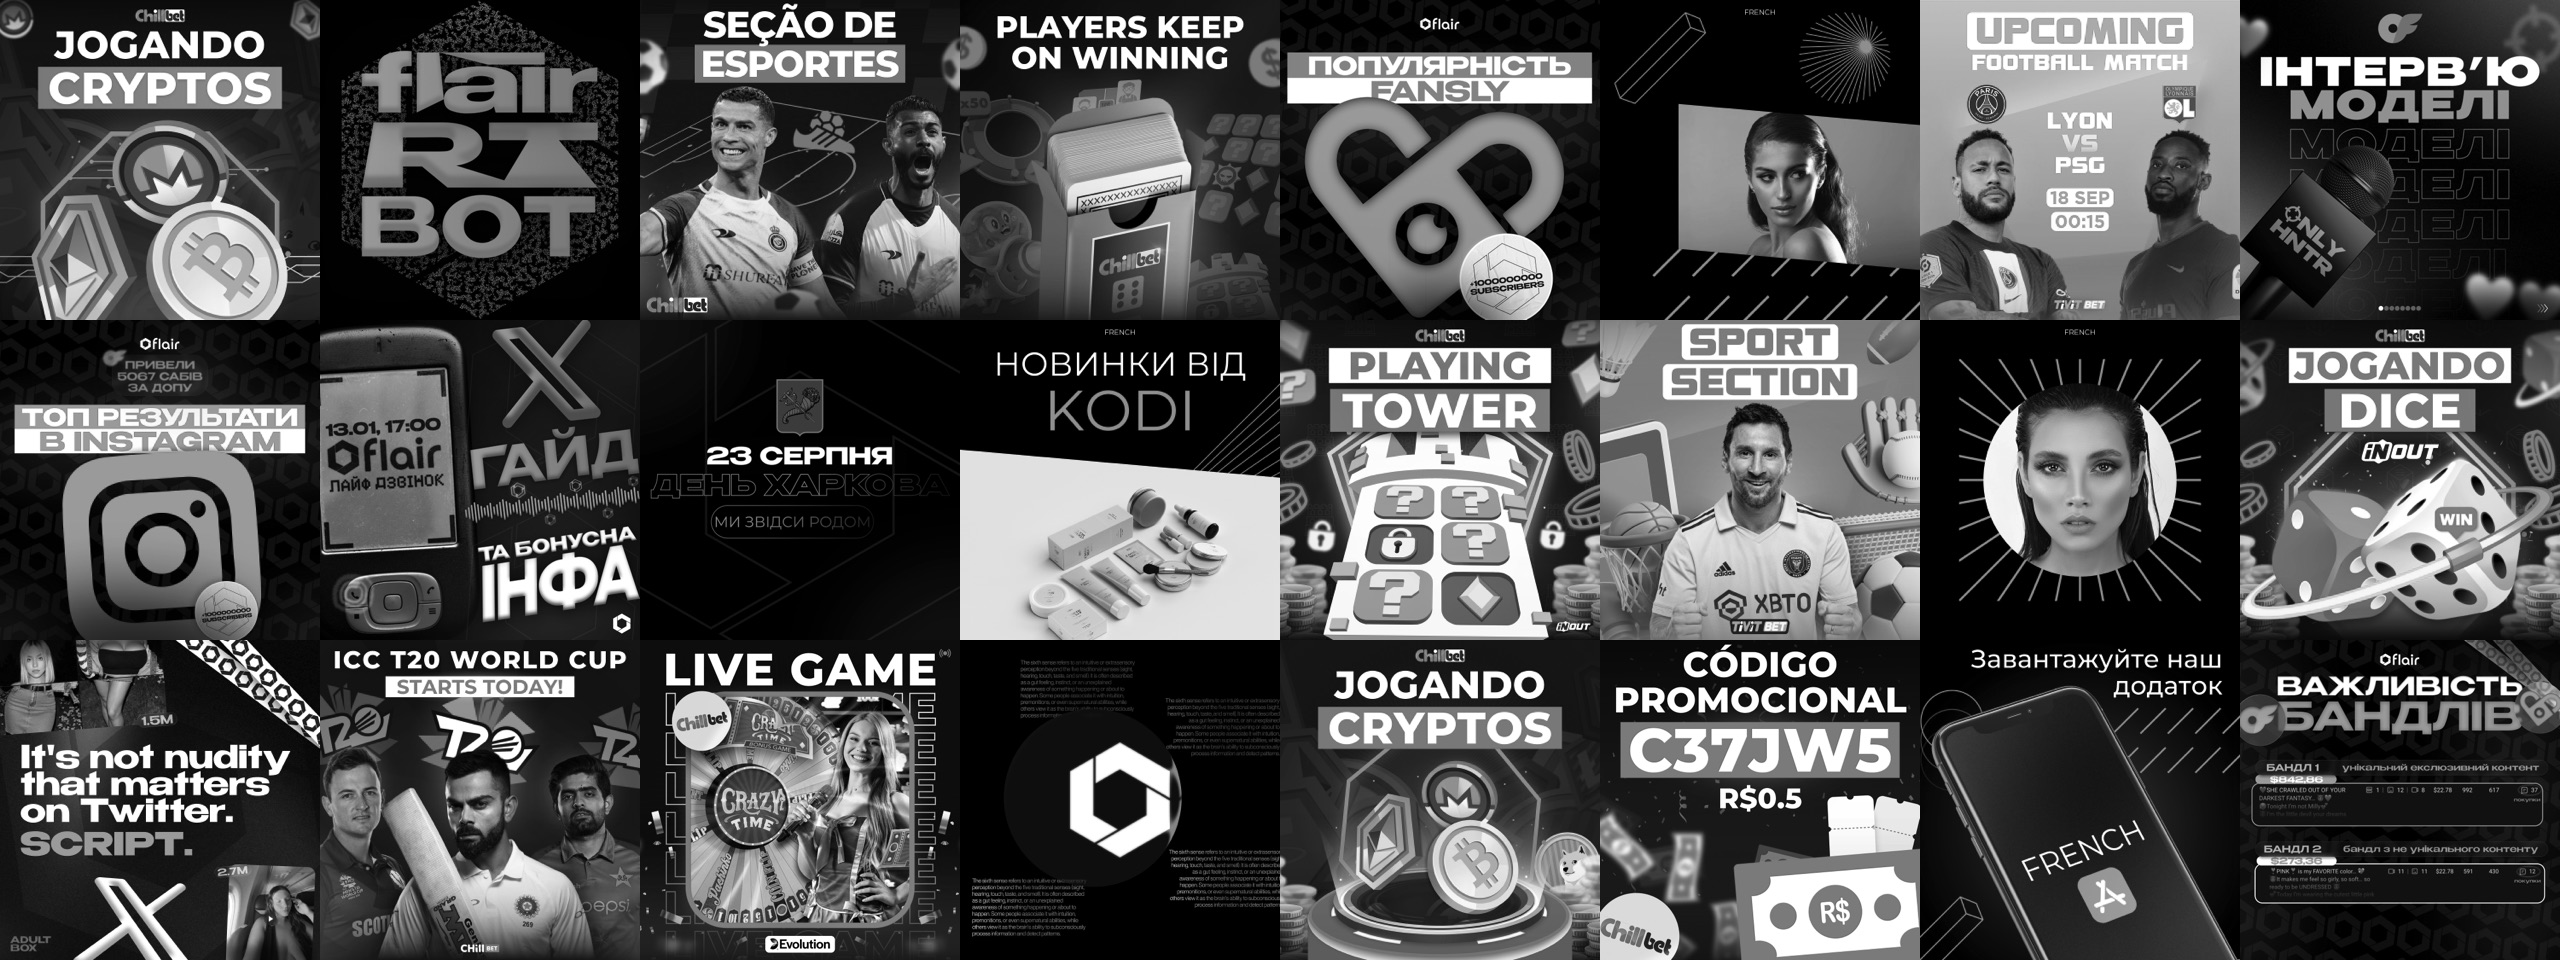
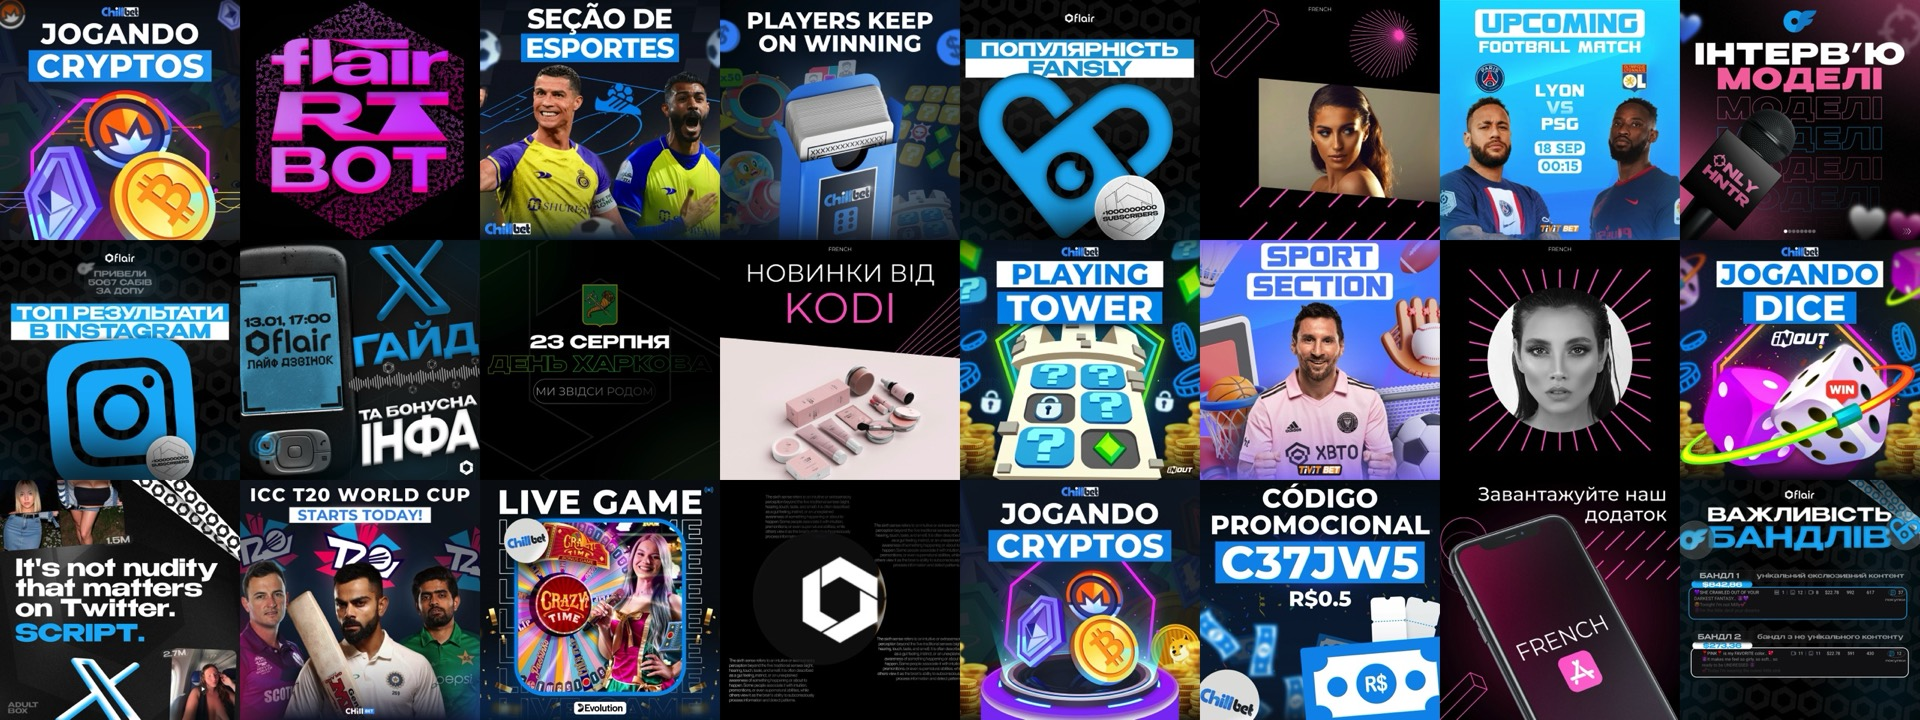
Add files via upload

diff --git a/index.html b/index.html
@@ -20,6 +20,17 @@
   <link rel="preconnect" href="https://fonts.googleapis.com" />
   <link rel="preconnect" href="https://fonts.gstatic.com" crossorigin />
   <link href="https://fonts.googleapis.com/css2?family=Inter:wght@300;400;500;600;700;800&display=swap" rel="stylesheet" />
+  <link rel="preload" as="image" href="smm.jpg" />
+  <link rel="preload" as="image" href="m1.gif" />
+  <link rel="preload" as="image" href="m2.gif" />
+  <link rel="preload" as="image" href="m3.gif" />
+  <link rel="preload" as="image" href="m4.gif" />
+  <link rel="preload" as="image" href="m5.gif" />
+  <link rel="preload" as="image" href="m6.gif" />
+  <link rel="preload" as="image" href="m7.gif" />
+  <link rel="preload" as="image" href="m8.gif" />
+  <link rel="preload" as="image" href="m9.gif" />
+  <link rel="preload" as="image" href="m10.gif" />
   <style>
     :root {
       --rx: 0deg;
@@ -668,6 +679,20 @@
       width: 100%;
       height: auto;
       object-fit: cover;
+      transition: filter 0.35s ease;
+    }
+
+    /* In B&W mode ("bw"), all site images/creatives/GIFs except the UI become black-and-white */
+    :root[data-theme="bw"] .project-image,
+    :root[data-theme="bw"] .smm-preview-strip,
+    :root[data-theme="bw"] .motion-preview-grid {
+      filter: grayscale(100%);
+      -webkit-filter: grayscale(100%);
+    }
+
+    :root[data-theme="bw"] .theme-current .theme-dot {
+      background: linear-gradient(135deg, #ffffff 50%, #52525b 50%);
+      box-shadow: 0 0 12px rgba(255, 255, 255, 0.55), 0 0 4px #ffffff;
     }
 
     /* SMM Design 8x3 B&W infinite slow pan preview card */
@@ -727,9 +752,8 @@
       height: 100%;
       width: auto;
       max-width: none;
-      filter: grayscale(100%);
-      -webkit-filter: grayscale(100%);
       will-change: transform;
+      transition: filter 0.35s ease;
       animation: smmPanSlow 32s ease-in-out infinite alternate;
     }
 
@@ -742,16 +766,15 @@
       }
     }
 
-    /* Motion Videos 5x2 B&W GIFs infinite slow pan preview card */
+    /* Motion Videos 5x2 GIFs infinite slow pan preview card */
     .motion-preview-grid {
       display: grid;
       grid-template-columns: repeat(5, 1fr);
       grid-template-rows: repeat(2, 1fr);
       width: 185%;
       height: 100%;
-      filter: grayscale(100%);
-      -webkit-filter: grayscale(100%);
       will-change: transform;
+      transition: filter 0.35s ease;
       animation: motionPanSlow 28s ease-in-out infinite alternate;
     }
 
@@ -956,6 +979,11 @@
       box-shadow: 0 0 10px rgba(150, 238, 190, 0.55);
     }
 
+    .theme-dot[data-color="bw"] {
+      background: linear-gradient(135deg, #ffffff 50%, #52525b 50%);
+      box-shadow: 0 0 10px rgba(255, 255, 255, 0.55);
+    }
+
     @media (max-width: 480px) {
       .lang-switcher {
         top: 1.1rem;
@@ -1059,7 +1087,7 @@
       <article class="project-card">
         <h3 class="project-title">smm design</h3>
         <div class="smm-preview-frame">
-          <img class="smm-preview-strip" src="smm.jpg" alt="smm design — 24 креатива" loading="lazy" />
+          <img class="smm-preview-strip" src="smm.jpg" alt="smm design — 24 креатива" decoding="async" />
         </div>
         <p class="project-desc" id="i18nSmmDesc">я создал более 3000 креативов за 3 года для различных бизнесов</p>
       </article>
@@ -1068,16 +1096,16 @@
         <h3 class="project-title">motion videos</h3>
         <div class="smm-preview-frame">
           <div class="motion-preview-grid">
-            <div class="motion-preview-cell"><img src="m1.gif" alt="motion 1" loading="lazy" /></div>
-            <div class="motion-preview-cell"><img src="m2.gif" alt="motion 2" loading="lazy" /></div>
-            <div class="motion-preview-cell"><img src="m3.gif" alt="motion 3" loading="lazy" /></div>
-            <div class="motion-preview-cell"><img src="m4.gif" alt="motion 4" loading="lazy" /></div>
-            <div class="motion-preview-cell"><img src="m5.gif" alt="motion 5" loading="lazy" /></div>
-            <div class="motion-preview-cell"><img src="m6.gif" alt="motion 6" loading="lazy" /></div>
-            <div class="motion-preview-cell"><img src="m7.gif" alt="motion 7" loading="lazy" /></div>
-            <div class="motion-preview-cell"><img src="m8.gif" alt="motion 8" loading="lazy" /></div>
-            <div class="motion-preview-cell"><img src="m9.gif" alt="motion 9" loading="lazy" /></div>
-            <div class="motion-preview-cell"><img src="m10.gif" alt="motion 10" loading="lazy" /></div>
+            <div class="motion-preview-cell"><img src="m1.gif" alt="motion 1" decoding="async" /></div>
+            <div class="motion-preview-cell"><img src="m2.gif" alt="motion 2" decoding="async" /></div>
+            <div class="motion-preview-cell"><img src="m3.gif" alt="motion 3" decoding="async" /></div>
+            <div class="motion-preview-cell"><img src="m4.gif" alt="motion 4" decoding="async" /></div>
+            <div class="motion-preview-cell"><img src="m5.gif" alt="motion 5" decoding="async" /></div>
+            <div class="motion-preview-cell"><img src="m6.gif" alt="motion 6" decoding="async" /></div>
+            <div class="motion-preview-cell"><img src="m7.gif" alt="motion 7" decoding="async" /></div>
+            <div class="motion-preview-cell"><img src="m8.gif" alt="motion 8" decoding="async" /></div>
+            <div class="motion-preview-cell"><img src="m9.gif" alt="motion 9" decoding="async" /></div>
+            <div class="motion-preview-cell"><img src="m10.gif" alt="motion 10" decoding="async" /></div>
           </div>
         </div>
         <p class="project-desc" id="i18nMotionDesc">у меня очень много моушн видео для брендов и событий, мои умения моушн уровня mid</p>
@@ -1226,7 +1254,7 @@
     let activeWormPalette = wormPalettes.pink;
 
     (function initThemeSwitcher() {
-      const themes = ['pink', 'blue', 'green'];
+      const themes = ['pink', 'blue', 'green', 'bw'];
       let currentTheme = 'pink';
 
       const switcher = document.getElementById('themeSwitcher');
@@ -1237,7 +1265,7 @@
 
       function updateFaviconColor(theme) {
         if (!faviconLink || !baseFaviconHref) return;
-        if (theme === 'pink') {
+        if (theme === 'pink' || theme === 'bw') {
           faviconLink.href = baseFaviconHref;
           return;
         }
